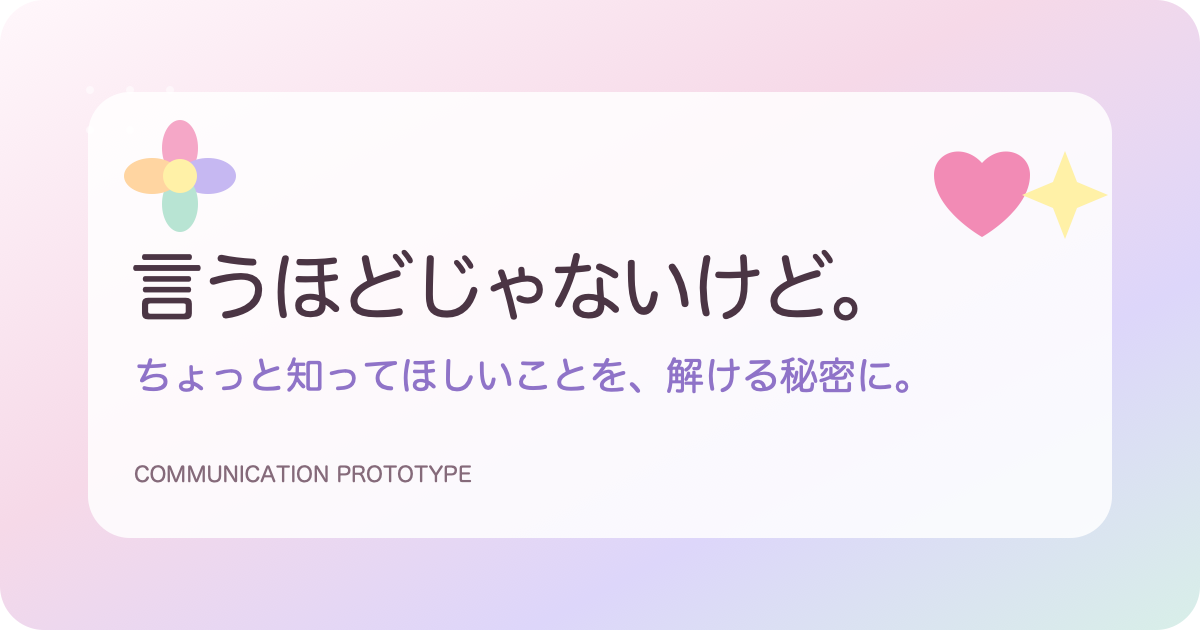
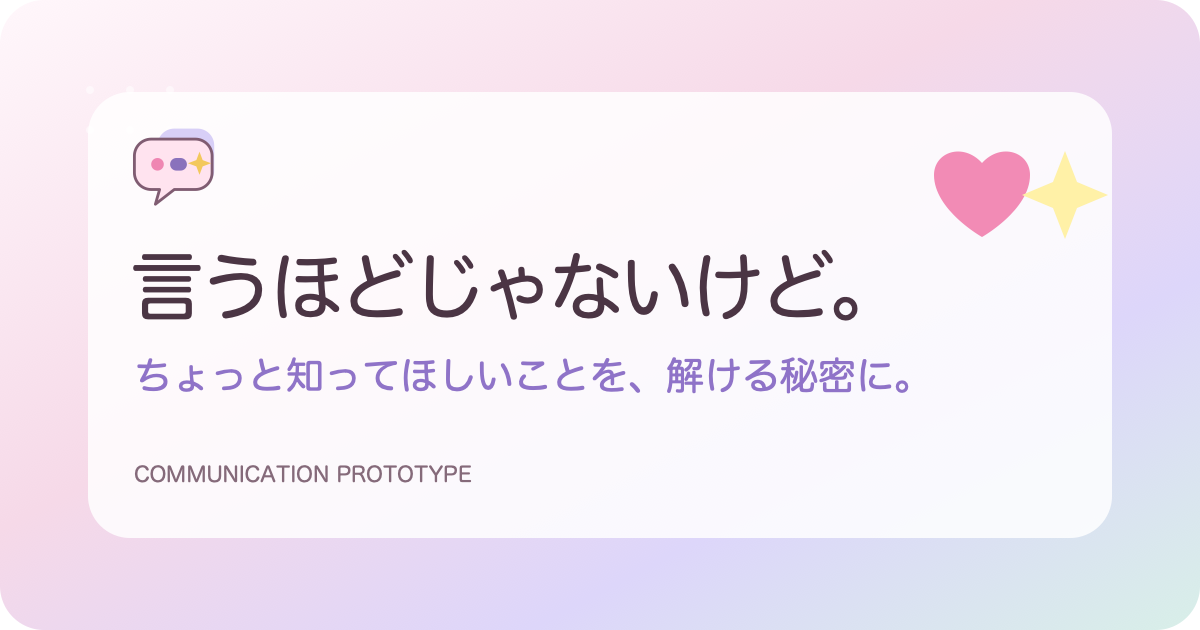
Replace flower mark with cipher pictogram

Changed region(s): [[0.0925, 0.181, 0.2158, 0.3619]]

diff --git a/index.html b/index.html
@@ -20,9 +20,9 @@
     <meta name="twitter:image" content="https://yuka-718.github.io/iu-hodo-janai-kedo/og-image.png" />
     <meta name="theme-color" content="#fff8fb" />
     <title>言うほどじゃないけど。</title>
-    <link rel="icon" href="./favicon.svg?v=9" type="image/svg+xml" />
+    <link rel="icon" href="./favicon.svg?v=14" type="image/svg+xml" />
     <link rel="stylesheet" href="./styles.css?v=9" />
-    <link rel="stylesheet" href="./cute.css?v=13" />
+    <link rel="stylesheet" href="./cute.css?v=14" />
   </head>
   <body>
     <div class="noise" aria-hidden="true"></div>
@@ -30,7 +30,7 @@
     <header class="site-header">
       <button class="wordmark" type="button" data-go-home aria-label="トップへ戻る">
         <span class="wordmark-mark" aria-hidden="true">
-          <svg viewBox="0 0 48 48"><ellipse cx="24" cy="12" rx="8" ry="11" /><ellipse cx="36" cy="24" rx="11" ry="8" /><ellipse cx="24" cy="36" rx="8" ry="11" /><ellipse cx="12" cy="24" rx="11" ry="8" /><circle cx="24" cy="24" r="6" /></svg>
+          <svg class="cipher-logo" viewBox="0 0 48 48"><rect class="cipher-logo-back" x="15" y="6" width="27" height="28" rx="8" /><path class="cipher-logo-bubble" d="M12 11h21a8 8 0 0 1 8 8v8a8 8 0 0 1-8 8H23l-9 7 2-7h-4a8 8 0 0 1-8-8v-8a8 8 0 0 1 8-8Z" /><circle class="cipher-logo-dot" cx="15" cy="23" r="3" /><rect class="cipher-logo-dash" x="21" y="20" width="8" height="6" rx="3" /><path class="cipher-logo-spark" d="m35 17 1.5 4 4 1.5-4 1.5-1.5 4-1.5-4-4-1.5 4-1.5Z" /></svg>
         </span>
         <span>言うほどじゃないけど。</span>
       </button>
@@ -46,8 +46,8 @@
       <section class="view is-active" id="home-view" aria-labelledby="home-title">
         <div class="home-menu wrap">
           <div class="home-menu-heading">
-            <span class="home-flower" aria-hidden="true">
-              <svg viewBox="0 0 48 48"><ellipse cx="24" cy="12" rx="8" ry="11" /><ellipse cx="36" cy="24" rx="11" ry="8" /><ellipse cx="24" cy="36" rx="8" ry="11" /><ellipse cx="12" cy="24" rx="11" ry="8" /><circle cx="24" cy="24" r="6" /></svg>
+            <span class="home-logo" aria-hidden="true">
+              <svg class="cipher-logo" viewBox="0 0 48 48"><rect class="cipher-logo-back" x="15" y="6" width="27" height="28" rx="8" /><path class="cipher-logo-bubble" d="M12 11h21a8 8 0 0 1 8 8v8a8 8 0 0 1-8 8H23l-9 7 2-7h-4a8 8 0 0 1-8-8v-8a8 8 0 0 1 8-8Z" /><circle class="cipher-logo-dot" cx="15" cy="23" r="3" /><rect class="cipher-logo-dash" x="21" y="20" width="8" height="6" rx="3" /><path class="cipher-logo-spark" d="m35 17 1.5 4 4 1.5-4 1.5-1.5 4-1.5-4-4-1.5 4-1.5Z" /></svg>
             </span>
             <h1 id="home-title">なにをする？</h1>
           </div>
@@ -379,7 +379,7 @@
     <dialog id="about-dialog" class="about-dialog" aria-labelledby="about-title">
       <div class="about-dialog-top">
         <span class="wordmark-mark" aria-hidden="true">
-          <svg viewBox="0 0 48 48"><ellipse cx="24" cy="12" rx="8" ry="11" /><ellipse cx="36" cy="24" rx="11" ry="8" /><ellipse cx="24" cy="36" rx="8" ry="11" /><ellipse cx="12" cy="24" rx="11" ry="8" /><circle cx="24" cy="24" r="6" /></svg>
+          <svg class="cipher-logo" viewBox="0 0 48 48"><rect class="cipher-logo-back" x="15" y="6" width="27" height="28" rx="8" /><path class="cipher-logo-bubble" d="M12 11h21a8 8 0 0 1 8 8v8a8 8 0 0 1-8 8H23l-9 7 2-7h-4a8 8 0 0 1-8-8v-8a8 8 0 0 1 8-8Z" /><circle class="cipher-logo-dot" cx="15" cy="23" r="3" /><rect class="cipher-logo-dash" x="21" y="20" width="8" height="6" rx="3" /><path class="cipher-logo-spark" d="m35 17 1.5 4 4 1.5-4 1.5-1.5 4-1.5-4-4-1.5 4-1.5Z" /></svg>
         </span>
         <button id="close-about-button" class="dialog-close" type="button" aria-label="説明を閉じる">×</button>
       </div>

diff --git a/cute.css b/cute.css
@@ -62,11 +62,12 @@ body {
   height: 30px;
 }
 
-.wordmark-mark ellipse:nth-child(1) { fill: #f7a8c8; }
-.wordmark-mark ellipse:nth-child(2) { fill: #cbbcf6; }
-.wordmark-mark ellipse:nth-child(3) { fill: #bfe8d8; }
-.wordmark-mark ellipse:nth-child(4) { fill: #ffd9a8; }
-.wordmark-mark circle { fill: #fff2a8; }
+.cipher-logo { overflow: visible; }
+.cipher-logo .cipher-logo-back { fill: #d8cff7; }
+.cipher-logo .cipher-logo-bubble { fill: #ffe3ef; stroke: #805c72; stroke-width: 1.35; stroke-linejoin: round; }
+.cipher-logo .cipher-logo-dot { fill: #ef86b2; }
+.cipher-logo .cipher-logo-dash { fill: #8a72bc; }
+.cipher-logo .cipher-logo-spark { fill: #f3c85c; stroke: none; }
 
 .header-link {
   color: var(--ink);
@@ -975,21 +976,17 @@ body {
   letter-spacing: -0.075em;
 }
 
-.home-flower {
+.home-logo {
   display: grid;
-  width: 62px;
-  height: 62px;
+  width: 68px;
+  height: 68px;
   flex: 0 0 auto;
   place-items: center;
-  transform: rotate(-8deg);
+  filter: drop-shadow(0 10px 18px rgba(125, 83, 108, 0.14));
+  transform: rotate(-4deg);
 }
 
-.home-flower svg { width: 100%; height: 100%; }
-.home-flower ellipse:nth-child(1) { fill: #f7a8c8; }
-.home-flower ellipse:nth-child(2) { fill: #cbbcf6; }
-.home-flower ellipse:nth-child(3) { fill: #bfe8d8; }
-.home-flower ellipse:nth-child(4) { fill: #ffd9a8; }
-.home-flower circle { fill: #fff2a8; }
+.home-logo svg { width: 100%; height: 100%; }
 
 .home-menu-grid {
   display: grid;
@@ -1312,7 +1309,7 @@ body {
   }
   .home-menu-heading { gap: 12px; }
   .home-menu-heading h1 { font-size: 42px; }
-  .home-flower { width: 46px; height: 46px; }
+  .home-logo { width: 50px; height: 50px; }
   .home-menu-grid { gap: 12px; }
   .home-menu-card {
     min-height: 126px;
